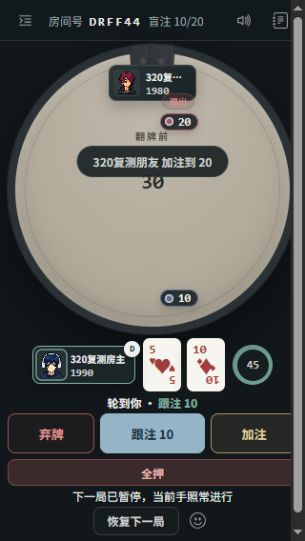
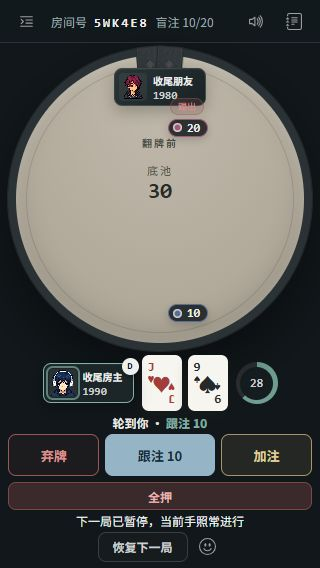
Correct CSV assertion and exact mobile capture evidence

diff --git a/test/friends.test.js b/test/friends.test.js
@@ -57,7 +57,7 @@ async function main() {
     const edge = buildSessionCsv({code:'ABC123'}, [{name:' \t=SUM(1,2)\n"名字"',buyIn:2000,chips:1900,pl:-100,hands:1,wins:0,left:false}]);
     assert.ok(edge.includes('"\' \t=SUM(1,2)\n""名字"""')); assert.ok(edge.includes('"-100"'));
     assert.ok(exported.csv.includes('房号'));
-    assert.ok(exported.csv.includes('2026-'));
+
     await ok(b, 'set_next_hand_paused', { paused: false });
     await sleep(5200); assert.strictEqual(room.handNumber, 2);
     console.log('朋友局检查通过：房主权限、当前时钟、手动绕过、重复恢复、定时取消、重买、房主转移、自动恢复、结算口径与CSV安全');

diff --git a/outputs/friends-enhancements-2026-10-23/README.md b/outputs/friends-enhancements-2026-10-23/README.md
@@ -28,3 +28,7 @@
 - 新增行为测试已接入 `npm test` 的 `test/run-all.js`，并提供 `npm run test:friends` 快捷入口。测试自行监听系统分配端口、断开客户端并清理定时器；CSV 导出断言只留在内存，不再覆盖提交的证据样本。`npm run test:friends` 已通过。
 - 用浏览器视口模拟实际检查了 **375×812** 和 **320×568**：等待区暂停/开始、当前手暂停提示/行动按钮、复盘导出入口和战绩表。320 宽度曾发现暂停提示贴边裁切，现已缩短文案并限制窄屏字号；复测显示提示完整，行动按钮和下载入口可操作。320 的复盘需要在弹窗内滚动到战绩区域，实际点击下载成功。
 - 截图：`mobile-375-waiting.png`、`mobile-375-current.png`、`mobile-375-review.png`、`mobile-320-waiting.png`、`mobile-320-current.png`、`mobile-320-review.png`。视口由浏览器模拟，不能替代触屏真机；没有在 Excel 应用中打开 CSV。已有规则和联机测试结果复用，本次未重跑全量测试。
+
+### 精确320视口补核
+
+已删除测试中写死2026年份的无价值断言，保留CSV安全与结算口径断言。重新读取页面实际视口为320×568，并按该视口边界捕获原始320×568截图，替换此前工具默认输出305×541的缩放图。当前手页面总高度581，存在13px纵向滚动；暂停提示、主操作与恢复按钮均在初始视口可达（恢复按钮底边约562px）。因此不宣称严格无滚动的一屏布局。截图为视口模拟，非触屏真机。
